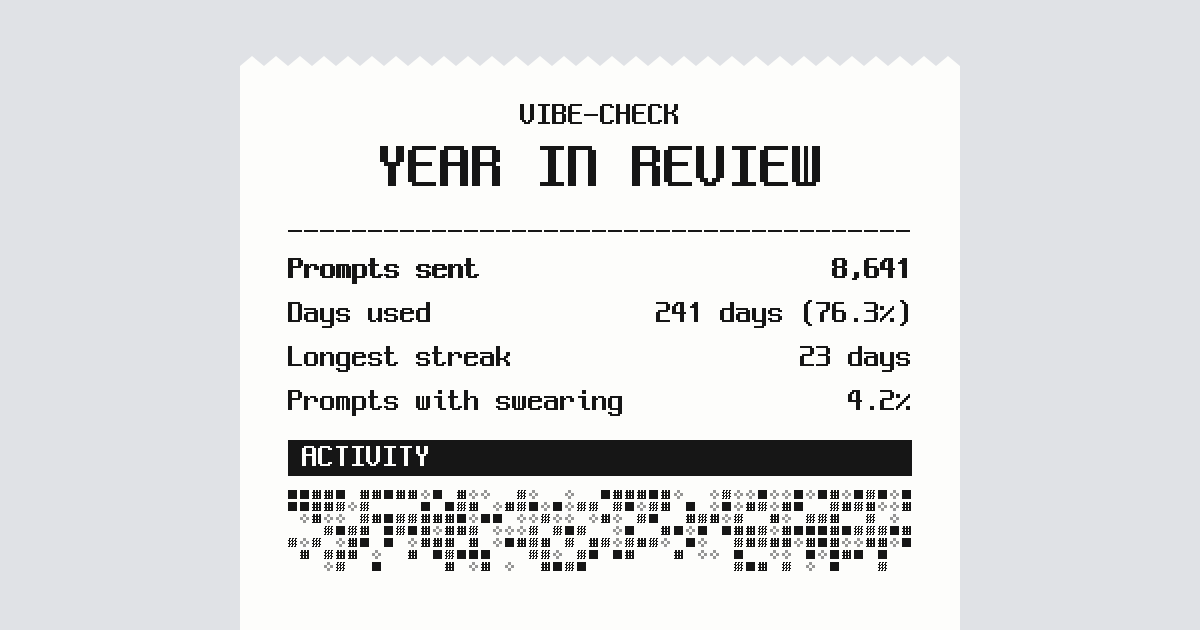
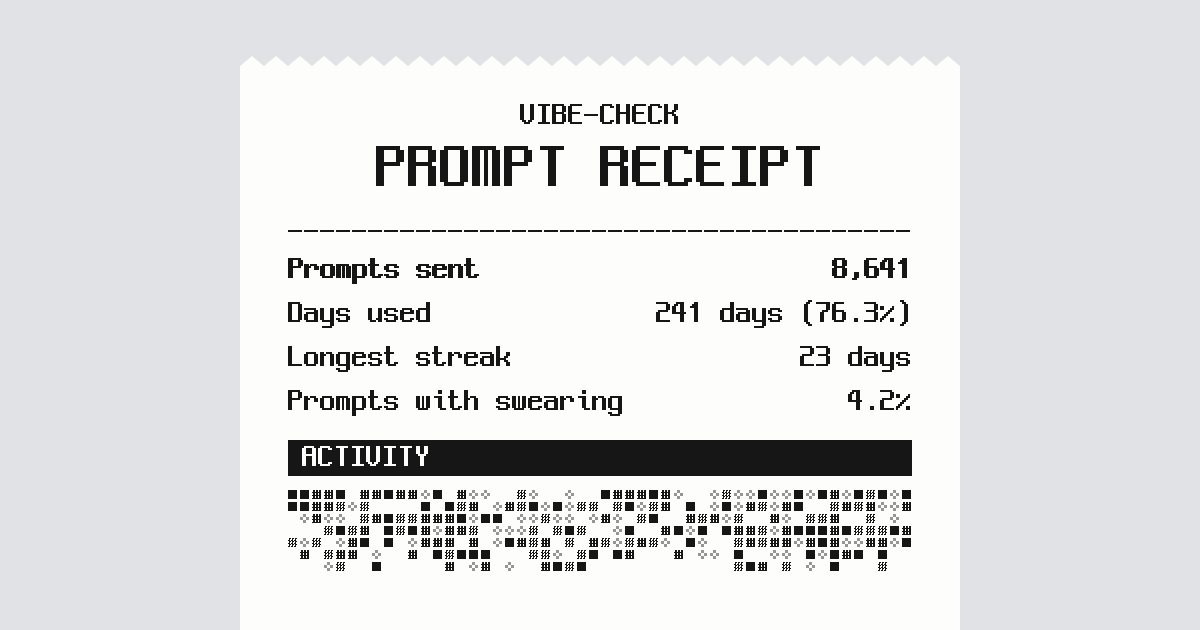
fix: update the README preview and link preview image to the new title

Changed region(s): [[0.4008, 0.2111, 0.6167, 0.3016], [0.6475, 0.2111, 0.7092, 0.3016], [0.3083, 0.2111, 0.37, 0.3016]]

diff --git a/img/og.html b/img/og.html
@@ -27,7 +27,7 @@ h1 { text-align: center; font-size: 64px; font-weight: normal; margin: 6px 0 14p
 </style>
 <div class="wrap"><div class="paper">
   <p class="src">VIBE-CHECK</p>
-  <h1>YEAR IN REVIEW</h1>
+  <h1>PROMPT RECEIPT</h1>
   <p class="rule">------------------------------------------------</p>
   <div class="row"><b style="font-weight:normal;text-shadow:1px 0 #161616">Prompts sent</b><b style="font-weight:normal;text-shadow:1px 0 #161616">8,641</b></div>
   <div class="row"><span>Days used</span><span>241 days (76.3%)</span></div>
